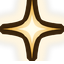
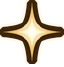
Fix card description overflow: measured step-down, margins, glyph cleanup
Descriptions could spill out of the fixed-height panel because the font
step-down chose its size from the raw CHARACTER COUNT, which ignores both
per-glyph width and the inline Power glyph the colorizer injects (worth
about a word of width for zero characters). Crescendo, at 59 chars - one
under the 60 threshold - stayed at 12pt and pushed a 4th line outside the
panel.

- Step-down now MEASURES: the colorized text is applied at each candidate
  size and the first whose get_content_height() fits the panel wins.
  RichTextLabel validates its wrap inside that call, so it reads true in
  the same frame - no await, which matters because this path runs per card
  in hand on every roll.
- DescriptionPanel grows 44 -> 56px for cards with no bonus-effect row. Its
  background is identical to the card body, so it is an invisible layout
  box and the 22px of dead space below it was free. 264 cards take 56, the
  11 with a bonus row keep 44.
- 6px side margins (wrap 140 -> 128px) so text no longer touches the frame.
- Non-breaking spaces weld the glyph to "Power" and a keyword to its number
  so AUTOWRAP_WORD can no longer split either pair across lines.
- power_glyph.png: dropped the halo, which covered the whole canvas and was
  sliced flat by its edge into a visible box, and rebuilt the top point from
  its intact mirror (the star is symmetric about row 28.5 to within
  0.02/255). Canvas 64x64 -> 64x67 with the new rows at the bottom, keeping
[…]

diff --git a/CLAUDE.md b/CLAUDE.md
@@ -8,11 +8,15 @@ L'auteur (Julien) n'est pas développeur de formation — le code a beaucoup de 
 
 Lire ceci avant de re-creuser quoi que ce soit — ça évite de redécouvrir des choses déjà établies. Session très chargée : garder cette liste à jour au fil des prochaines sessions plutôt que de tout re-résumer depuis zéro.
 
+- **STEP-DOWN DE POLICE DES DESCRIPTIONS PASSÉ EN MESURÉ (2026-07-29, sur screenshot de Julien « some card descriptions are not very well displayed when the text is a bit long » — Crescendo) — VÉRIFIÉ PAR HARNAIS (275 cartes, statique + 3 états de roll résolus, 0 débordement) + RENDU, NON PLAYTESTÉ.** Root cause : `description_font_size_for()` choisissait la taille sur le NOMBRE DE CARACTÈRES (seuils 60/90) — proxy qui ignore (a) la largeur réelle par glyphe et (b) **le glyphe de Power inline injecté par le colorizer, qui coûte ~un mot de largeur pour ZÉRO caractère**. Crescendo (« Deal damage equal to all Power generated this turn. Exhaust » = **59 caractères, UN sous le seuil de 60**) restait donc à 12pt et poussait une 4e ligne hors du `DescriptionPanel` (44px de haut) — et comme le label est centré verticalement par le `CenterContainer`, le débordement bave en haut ET en bas. **Fix = mesurer, exactement comme les TITRES le font déjà** (`TITLE_FONT_SIZE_CANDIDATES`, dont le commentaire disait déjà « les seuils par nombre de caractères ne peuvent pas marcher ici ») : nouveau `DESC_FONT_SIZE_CANDIDATES = [12, 11, 10, 9]`, et `_apply_description` boucle en posant réellement le texte colorisé à chaque taille jusqu'à ce que `description.get_content_height() <= description_panel.size.y`. **⚠ Découverte qui rend ça possible sans `await` : `RichTextLabel.get_content_height()` valide son wrap EN INTERNE et renvoie la vraie valeur dans la MÊME frame** (vérifié : 0 écart sur 275 cartes entre la lecture immédiate et la lecture post-layout) — donc pas besoin du pattern « await un process_frame » du toast d'achievement, ce qui compte car ce chemin tourne **par carte en main à chaque roll** (descriptions dynamiques). Sûr côté cycle de vie : les 5 vrais call sites (`hand.gd`, `card_rewards.gd`, `shop_card.gd`, `card_shop.gd`, `card_pile_view.gd`) font TOUS `add_child()` AVANT `.card = …`, et les 2 setters ont déjà `if not is_node_ready(): await ready`. **Appliqué aux 3 chemins** : les 2 `_apply_description` dupliqués (card_ui + card_menu_ui, piège de duplication habituel) **ET `dice.gd::_set_charged_description`** — ce dernier était figé à 12pt avec le commentaire « socket text is never long enough », **assertion fausse** (le panneau du socket est le MÊME slot 140×44, et n'importe quelle carte peut être posée sur le dé rouge) ; son placeholder « Place a card here » remet explicitement 12pt sinon il héritait de la taille rétrécie de la carte précédente, et son `CHARGED_DESC_GLYPH_PX` codé en dur à 14 devient `font_size + 2` (convention des cartes). **Résultat mesuré : 5 cartes rétrécies d'un cran** (Crescendo 12→11 ; Eclipse+, Precision Engine, Resonance, Transmutation 11→10 — les 5 seules qui débordaient) **et 19 cartes AGRANDIES 11→12pt** (All In, Assault(+), Bloodlust, Earthquake(+), Executioner, From Nothing(+), Meteor(+), Opening Gambit(+), Pinpoint(+), Stampede(+), Tension, Transmutation+) parce que l'heuristique était trop conservatrice — gain de lisibilité gratuit. **MARGES LATÉRALES AJOUTÉES DANS LA FOULÉE — 6px par côté, choix de Julien sur planche comparative** (« try to add some side margins just to see how it looks and then we can choose ») : le texte wrappait à **140px = toute la largeur de la carte, bord à bord**, donc il TOUCHAIT le cadre doré (visible sur Crescendo « …equal to all ✦ » et Resonance « …in your current ✦ »). `custom_minimum_size.x` du label Description passe **140 → 128** dans les 3 `.tscn` (card_ui, card_menu_ui, **et dice.tscn pour le socket**, qui doit rester cohérent). Options rendues et mesurées avant de choisir (harnais `debug_desc_margins.gd`/`.tscn`, sortie `power_icon_renders/desc_margin_options.png` + zoom 3× `desc_margin_zoom.png`) : 0px (actuel, texte collé au cadre) / 4px (2 cartes perdent un cran) / **6px (8 cartes perdent un cran — RETENU)** / 8px (9 cartes, dont 2 qui perdent DEUX crans). Aucune option ne déborde, le step-down mesuré absorbe tout — le vrai arbitrage est « air vs taille de police ». **⚠ Le wrap plus étroit a RÉVÉLÉ un cas que les 140px masquaient : `All In+` déborde même à 9pt** — sa description dynamique fait 94 caractères **PLUS une ligne forcée par un `\n` littéral** (`"…each adds its own roll\n(%d Dice remaining)"` dans `all_in_plus.gd`), donc elle coûte structurellement une ligne de plus que n'importe quelle autre carte. Plancher 8pt ajouté aux 3 listes de candidats (filet de sécurité, **plus atteint depuis l'agrandissement du panneau ci-dessous**).
+- **PANNEAU DE DESCRIPTION AGRANDI 44 → 56px (même session, décision de Julien « yes do B » après comparaison chiffrée) — c'est CE changement qui rend les marges gratuites.** Constat déclencheur : il y a **22px de place morte sous le DescriptionPanel** (y188..210), occupés uniquement par `BonusSeparator`/`BonusEffect`, càd par **11 cartes seulement** (celles à `bonus_requirement != NONE`). Et surtout — **le DescriptionPanel est une boîte de layout INVISIBLE** : son `bg_color` est **identique au bit près** au corps de la carte sur les variantes Celestial (`0.156863, 0.247059, 0.298039`) et Blessing (`0.282353, 0.176471, 0.294118`), et ne diffère que de ~0.001 sur la normale (`0.309804,0,0.070588` vs `0.311214,0,0.069622`). **L'agrandir ne change donc STRICTEMENT RIEN visuellement** — seul le texte long grandit. Nouvelles constantes `DESC_PANEL_TOP = 144.0` / `DESC_PANEL_HEIGHT = 56.0` / `DESC_PANEL_HEIGHT_WITH_BONUS = 44.0` + helper `_resize_description_panel()` appelé **AVANT `_apply_description`** (qui mesure contre `description_panel.size.y` — l'ordre est critique ; vérifié : écrire `offset_bottom` met `size.y` à jour de façon SYNCHRONE, le panneau n'étant pas géré par un container). Le helper pose les DEUX branches inconditionnellement, jamais seulement l'agrandissement : les nœuds sont réutilisés (Before/AfterCard du dialogue d'upgrade) donc une carte à bonus doit pouvoir RÉTRÉCIR le panneau. **56 et pas 66 (la place totale)** : le texte est centré verticalement, donc un panneau trop haut laisse un gros bloc dériver vers le bas jusqu'à frôler la bordure basse — exactement le problème de bord que les marges venaient de régler, sur l'autre axe ; 56 laisse 10px de garde. **Appliqué aussi au socket de dice.gd**, ce qui a nécessité de **NORMALISER des ancres corrompues dans `dice.tscn`** : son DescriptionPanel avait `anchor_top = 144.0` / `anchor_bottom = 188.0` (valeurs d'ancre censées être dans 0..1 !) compensées par `offset_top = -30096` / `offset_bottom = -39292` — ça ne résolvait au bon rectangle QUE parce que le parent fait exactement 210px de haut (144×210−30096 = 144). Remis à ancres 0 + offsets 144/188, identique au rendu mais éditable sans piège. **RÉSULTAT FINAL, strictement meilleur qu'avant TOUT ce chantier : 0 débordement (statique + 3 états de roll résolus), 0 carte plus petite qu'à l'origine, 32 cartes PLUS GRANDES**, et les marges de 6px ne coûtent plus rien. Crescendo (la carte signalée) repasse **12pt** — sa taille d'origine, mais cette fois elle TIENT dans le panneau et a des marges. All In+ passe de 8pt à **10pt sans toucher à son texte** (donc la réécriture envisagée — inliner le `\n`, retirer « Then, » — devient inutile ; elle reste la carte la plus dense du pool, mesurée : inliner le `\n` la mettrait à 11pt si un jour on veut ce cran de plus). Répartition des panneaux vérifiée : **264 cartes à 56px, 11 à 44px, 0 erreur**. Harnais ajoutés : `debug_allin_options.gd`/`.tscn` (variantes de wording d'All In+ + budget vertical) et `debug_taller_panel.gd`/`.tscn` (gain par hauteur de panneau 44/56/62).
+- **SOUDURES INSÉCABLES (NBSP) DANS LE COLORIZER (même session, 2 retours de Julien sur screenshot) — VÉRIFIÉ PAR RENDU, NON PLAYTESTÉ.** (1) Eclipse affichait « does not reset your ✦ » / retour à la ligne / « Power. » — **le glyphe se retrouvait orphelin en fin de ligne, séparé de son propre mot** ; (2) Disintegrate coupait « Charge » / « 2 ». Root cause commune : `autowrap_mode = AUTOWRAP_WORD` casse sur N'IMPORTE quelle espace ordinaire, et le colorizer en émettait deux (l'espace entre `[img]` et « Power » ligne 210 ; et le `$0` de la passe 3 qui préserve tel quel l'espace mot-clé↔nombre). **Fix = `const NBSP := " "`** (U+00A0) posé à 3 endroits : glyphe↔« Power », mot-clé↔son nombre (les 2 sens : « Charge 2 » ET « 2 Strength »), et mot-clé↔span de dé absorbé (« Charge 2 Magma Dice » peut encore casser avant « Magma », jamais avant « 2 »). **Godot n'a PAS de BBCode « nobr »** — le NBSP est le seul levier, et TextServer respecte bien UAX #14 (vérifié au rendu : les 2 cartes signalées sont réparées). ⚠ **Nouveau helper `_wrap_keyword_span()`** parce que `RegEx.sub()` sait substituer une capture mais pas la TRANSFORMER — la passe 3 reconstruit donc ses spans à la main (même style que `_swap_x_placeholder`). ⚠ **Ne PAS généraliser le NBSP aux phrases longues** : un run insécable plus large que la colonne de 128px ne peut pas être coupé par AUTOWRAP_WORD et déborderait horizontalement ; réservé aux paires courtes. Coût mesuré : 1 carte de moins dans les « agrandies » (32 → 31), 0 débordement. Harnais `debug_wrap_pairs.gd`/`.tscn` (racine, non committé) : rend les cartes signalées + les formes mot-clé/nombre ET imprime le BBCode final avec les `<NBSP>` visibles.
+- **GLYPHE DE POWER NETTOYÉ : halo retiré + pointe haute RECONSTRUITE (même session, 3e retour de Julien « you can see the borders around the actual shape of the icon… I mean the small halo ») — VÉRIFIÉ PAR MESURE + RENDU MOTEUR, NON PLAYTESTÉ.** Julien voyait un **carré** autour du ✦. Diagnostic : le halo doré peint dans `power_glyph.png` s'étendait sur **tout** le canvas 64px (rangées 0-60, colonnes 0-63) et **ne retombait jamais à zéro avant le bord** — il était donc tranché net par la bordure du canvas, produisant 4 arêtes droites avec des coins vides = une boîte. **⚠ PIÈGE DE MÉTHODE MAJEUR : à la taille de design (14px) les 4 variantes sont RIGOUREUSEMENT indiscernables et l'artefact est invisible.** Il n'apparaît que parce que la fenêtre de Julien est ~3,4× le canvas 1280×720, donc un glyphe « 14px » rastérise vers **48px** et la source 64px est quasi 1:1. **Toute future évaluation d'un asset inline doit se faire à la taille ÉCRAN réelle, pas à la taille design** (c'est aussi pour ça que ça n'avait pas été vu à l'intégration). 3 variantes construites et rendues en moteur sur de vraies cartes à l'échelle 2,6 (harnais `debug_glyph_variants.gd`/`.tscn` — ⚠ `POWER_GLYPH_PATH` est un `const`, donc le harnais échange le chemin DANS le BBCode déjà produit ; toutes les variantes font 64px de large, la mesure de layout est donc identique) : **A halo supprimé (RETENU)**, B halo estompé vers le bord (**inefficace** — le gros du halo est près de l'étoile, pas près du bord), C halo à 50% (atténue sans supprimer). **Le fond teal d'Eclipse est LE test décisif** (un halo chaud y contraste au maximum) — les fonds rouges le cachent presque. **Pointe haute réparée dans la foulée** : le profil ligne par ligne montre que l'étoile est symétrique **exactement** autour de la rangée 28,5 (diff de couleur mesurée à 0,00-0,02/255 sur chaque paire miroir) et que sa vraie pointe vit aux rangées −3..−1 — soit précisément les 3px que le décalage vers le haut du 07-29 avait jetés (`np.roll` + clear). Les 3 rangées manquantes sont donc **reconstruites depuis leur miroir intact** (rangées 60/59/58), pas redessinées à vue. **⚠ Le canvas passe 64×64 → 64×67, les 3 rangées ajoutées étant EN BAS** : ça garde l'étoile entière ET la remontée optique validée par Julien (elle reste haute dans sa boîte) ; à `[img=14]` l'étoile rend toujours exactement 14×14, **donc aucun changement de taille et aucun call site à retoucher** (la convention `font_size + 2` est intacte). Les pointes gauche/droite, elles, se terminaient déjà proprement pile sur le bord (taper 10→8→6) — non touchées. Vérifs post-changement : audit 275 cartes 0 débordement, chemins CardUI + socket OK, **et tooltip « Power » re-rendu** (le panneau est à hauteur FIXE et clippe silencieusement au-delà de 3 lignes — le glyphe étant maintenant 0,66px plus haut à `[img=18]`, ce contrôle n'était pas optionnel : il tient toujours en 3 lignes). Original sauvegardé dans **`power_glyph_ORIG_backup.png`** ; `power_glyph_v_none/taper/half.png` laissés à la racine (non committés) pour le harnais de comparaison. Harnais racine non committés : `debug_desc_overflow.gd`/`.tscn` (audit des 275 cartes + diff vs l'ancienne heuristique), `debug_desc_paths.gd`/`.tscn` (chemins CardUI + socket dice.gd), `debug_desc_render.gd`/`.tscn` (rendu avant/après → `power_icon_renders/desc_overflow_fix.png`). ⚠ Bruit préexistant sans rapport repéré au passage : `characters/warrior/cards/warrior_block.tres` et `warrior_slash.tres` ne chargent plus (art manquant `assets/images/shieldability.png` / `art/tile_0118.png`) — fichiers legacy, le deck de départ utilise `warrior_block1-4.tres`.
 - **ICÔNE DE POWER — GLYPHE « N » INTÉGRÉ AU COLORIZER LE 2026-07-29 (mode glyphe+mot par défaut), PAS ENCORE PLAYTESTÉ ; décision de wording (garder le mot vs glyphe seul façon GPT) EN ATTENTE.** Historique de l'exploration (2026-07-28) : Question de Julien : remplacer le « X » des descriptions de cartes par une icône de Power. 16 candidats générés (6 Firefly sur mes prompts + 10 GPT Image), nettoyés au pipeline chroma-key, rendus **dans de vraies CardMenuUI à 14px** (harnais `debug_power_icon.gd`/`.tscn` à la racine, non committé ; icônes de test `power_icon_test_a-f.png` + sorties `power_icon_renders/` à la racine, non committées — à supprimer si l'idée est abandonnée).
-  - **⭐ RE-ÉVALUATION FABLE (2026-07-29) — LES 16 CANDIDATS SONT STRUCTURELLEMENT MORTS, GAGNANT = GLYPHE VECTORIEL DESSINÉ (pas généré), EN ATTENTE DU VERDICT DE JULIEN.** Les 16 téléchargements du 07-28 (revus un par un, contact sheet + rendus moteur) échouent tous à ≥1 de **4 filtres structurels** : (1) pips comptables (triades, dé+burst, sceaux à pip central) ; (2) collision d'iconographie (disque doré = pièce d'or, cristal/gemme = **gemmes de rareté des bannières**, flamme = magma) ; (3) bouillie à 14px (bursts, swirls, perles) ; (4) sémantique fausse (chevrons = rank-up). **Regénérer ces concepts ne peut pas les sauver — le round-2 « orbe » est SUPERSEDED : un orbe à 14px devient physiquement un disque = une pièce** (vérifié en moteur sur G1 nettoyé + orbe vectoriel à anneau). **Reframe clé : à 12pt le glyphe a la taille d'une LETTRE — c'est de la typographie, pas de l'illustration ; le détail peint est invisible à cette taille.** Méthode « shape-first » : 6 glyphes vectoriels dessinés en PIL (supersample 8×, or/blanc chaud, outline brun, halo subtil, 64px, teintables) + testés dans le VRAI moteur (harnais étendu : env `POWER_ICON_VARIANTS` + carte Blaze ajoutée pour prévisualiser la phase 1 « [glyphe] Power » doré). **Verdict en moteur : la famille ÉTOILE 4 BRANCHES gagne nettement** — elle seule reste nette à 14px (grade letterform), zéro collision (pas un disque/gemme/flamme/pip), sémantique « énergie/magie » qui rime avec les orbes de power et les bursts de max roll, et **« ✦x3 » lève enfin l'ambiguïté de « X3 »** (icône × 3). Classement round 1 : L (glint allongé) > G (spark trapu) > M > H — **PUIS catch de Julien : L est quasi-identique au glyphe « Regent star » de STS2** (slim/allongé/cyan chez eux, inline dans le texte de carte pareil). Verdict donné : la convergence de forme est attendue (très peu de formes survivent à 14px) mais l'overlap d'audience total fait que chaque marque identique nourrit la perception « clone » — **différencier DANS la famille plutôt qu'abandonner ; ne JAMAIS shipper slim+allongé+couleur froide**. **Round 2 sur sa demande (« try g, h, and the lightning bolt… don't be scared to try new things ») : N (glint carré à bords concaves, remplace G), O (spark diagonal affûté « X », remplace H — le blob venait des bords droits), P (bolt flash incliné), Q (bolt vertical), R (double-étincelle fusionnée)** — en moteur : **finalistes N/O/P** (P = le plus instantanément lisible + « your ⚡ Power » très naturel + zéro adjacence STS2, mais saveur électrique étrangère au thème dés-magie ; N = le plus joli, famille sparkle assumée mais différenciée de Regent par proportions carrées+or+courbes ; O = le plus « ownable », lit à la fois spark et X donc continuité avec la notation actuelle — bémol : accolé au mot Power il peut flasher « multiplication » une fraction de seconde). Q correct mais P mieux proportionné ; R = l'étoile compagne devient une miette à 14px (charmante à 64px, morte inline). Morts round 1 : comète (têtard), orbe-anneau et G1 nettoyé (pièces), sceau C (fuzz). Icônes `power_icon_test_a-r.png` + rendus `power_icon_renders/final*/` à la racine (non committés). **Julien a choisi N (« lets try N ») → INTÉGRÉ LE JOUR MÊME dans le vrai pipeline de texte** : asset stable **`power_glyph.png`** (racine, copie de test_n, near-monochrome or → tintable via `[img color=]` plus tard) ; **`KeywordColorizer`** porte tout — `POWER_GLYPH_PATH`, `enum PowerGlyphMode {OFF, WORD_WITH_GLYPH, GLYPH_ONLY}`, **`static var power_glyph_mode` (défaut WORD_WITH_GLYPH)** et `_apply_power_glyph()` en **passe 4, APRÈS les 3 passes existantes** (X et « Power » ne sont pas des KEYWORDS → zéro interférence ; le path lowercase ne peut pas se re-matcher). Le « X » standalone (case-sensitive, `\bX(\d*)\b` — « X3 » → « [glyphe]x3 », lève l'ambiguïté ×3) devient TOUJOURS le glyphe ; le mot « Power » devient « [glyphe] Power doré » (teaching) ou « [glyphe] » seul (mode GPT). **Taille du glyphe = font_size+2 passée par les 2 `_apply_description`** (12→14px, suit les step-downs 11/10) + 12px sur les 2 `bonus_effect_label` (police 10) ; `get_colorized_description(text, glyph_px=16)` (card.gd + relic.gd — les tooltips de reliques Blood Sword/Metronome/Overflow Valve reçoivent le glyphe gratuitement, vérifié zéro faux-positif « X » dans les tooltips de reliques et bonus texts — le seul X de bonus, Ambush « Block X », EST du Power). **Les descriptions DYNAMIQUES restent correctes par construction** (X résolu en nombre = plus de X à matcher ; le glyphe n'apparaît que tant que le montant est inconnu). Le step-down de police mesure toujours le texte BRUT (comportement préservé, vérifié hier). **`debug_power_icon.gd` force maintenant `power_glyph_mode = OFF`** (garde sa baseline « original X » honnête). **NOUVEAU harnais `debug_power_wording.gd`/`.tscn` (racine, non committé)** : rend les 3 philosophies A/B/C via le VRAI chemin set_card sur 7 cartes stress-test (Strike/Bullseye/Blaze/Second Wind/Shockwave/Refinement/Eclipse), le mode C utilisant des Cards dupliquées en mémoire avec les réécritures GPT (« Gain 7 ✦ », « Heal ✦ ») — sortie `power_icon_renders/wording/`. **Idée GPT sur la table : renommer la ressource en glyphe TOUT COURT dans le texte (« Gain 7 ✦ », « Deal ✦ damage ») — compression spectaculaire au rendu (Second Wind passe de 3 lignes à 2 mots) mais déplace tout l'enseignement vers HUD/tooltip/tutoriel ; reco de Claude : shipper B (teaching) au launch, basculer C post-launch = flip du static var + passe de réécriture des .tres.** **MÊME SESSION, sur retour de Julien en jeu (« pretty good » + 2 demandes) : (a) glyphe REMONTÉ de 3px source (~0,7px à 14px) — cuit DANS `power_glyph.png` (np.roll up + clear, le clipping ne mange que du halo invisible ; toute REGÉNÉRATION de l'asset doit re-appliquer ce shift). ⚠ La mesure d'encre disait ±0,5px « déjà centré » — mais la bande mesurée incluait le descender du « g » ; l'œil de Julien fait foi sur l'optique, A/B avant/après vérifié au rendu.** **(b) TOOLTIP « Power » LIVRÉ** : entrée dans `tooltip.gd::get_tooltip_content` (glyphe `[img=18]` dans le TITRE + `[img=13]` en tête du corps — les 2 labels du panel sont des RichTextLabel BBCode) + détection texte via nouveau `KeywordColorizer.text_mentions_power()` (mêmes patterns case-sensitive que la passe 4, retourne false en mode OFF) branchée dans **les 2 handlers hover dupliqués** (card_ui + card_menu_ui, après la boucle dice) — toute carte qui rend le glyphe (mot OU X) montre le tooltip au survol, c'est LA boucle d'enseignement. **⚠ Piège : le panel tooltip.tscn est à HAUTEUR FIXE + empilé par constantes TOOLTIP_HEIGHT → un corps > 3 lignes CLIPPE silencieusement** (1er jet coupé à « when [played.] », raccourci à « ✦ is your Power: the total of your Dice rolls. Most cards reset it when played. ») — ne pas rallonger sans re-render. Harnais `debug_power_tooltip.gd`/`.tscn` (racine, non committé). **GLYPHE HUD LIVRÉ (même session, 3e demande de Julien)** : `PowerGlyph` (TextureRect 32px) + `PowerHoverZone` (Control, `mouse_filter = 1` PASS) **ENFANTS du Label `CurrentPower`** dans dice.tscn — position « ✦N » (à gauche des chiffres, centré sur leur encre : offsets -34..-2 × 31..63 ; le zone couvre glyphe+chiffres -32..72 × 10..84). **⚠ Choix structurel à comprendre avant de retoucher : `use_parent_material = true`** → le glyphe partage le ShaderMaterial `power_float` du label (drift/crackle = TIME global, aucun déphasage possible) ET hérite modulate/scale par parenté → flashs de couleur, punchs de clang et float bougent le duo comme UN objet rigide (la règle « they should move together » des icônes d'intent). **Conséquence assumée : le glyphe est TEINTÉ par le modulate dice-colored du nombre** (bleu argenté sur blue, orange chaud sur magma — vérifié au rendu 3 types, pas de boue) — il n'est PAS or fixe comme sur les cartes ; le forcer or = le dé-parenter (perd la synchro gratuite), ne pas le faire sans demande. Hover → tooltip « Power » à `POWER_TOOLTIP_POS (788,300)` (au-dessus du champ de bataille, panel CanvasLayer 100), pattern anti-leak complet (kill-before-spawn + timer 8s + **nouveau `_exit_tree()` de dice.gd** — le fichier n'en avait pas). Positionnement calé par 2 itérations de rendu `debug_dice_glow` (1er jet au-dessus des chiffres = lisait comme un ornement du pilier de fond — la compo « au-dessus » est MORTE, garder « à gauche »). **Tooltip Power reformulé sur la phrase de Julien** : « ✦ is your Power: the sum of consecutive rolls on the same Dice type. Most cards reset it. » (tient PILE en 3 lignes, re-rendu vérifié). **PUIS RETIRÉ LE JOUR MÊME sur verdict de Julien (5 retours d'un coup)** : (1+2) le glyphe HUD était à moitié caché par le dé (vu sur son screenshot — l'espace entre dé/aura et chiffres est structurellement trop étroit, et la compo « au-dessus » était déjà morte) ET jugé non nécessaire → **nœud `PowerGlyph` SUPPRIMÉ de dice.tscn (ext_resource + load_steps 63), MAIS `PowerHoverZone` + tooltip au survol du nombre CONSERVÉS** (la boucle d'enseignement = glyphe sur cartes + tooltips, pas de glyphe HUD). (3) **Passe « Gain X Block » APPLIQUÉE — 59 fichiers** (`block_wording_pass.py` scratchpad, regex `\bBlock (X(?:\+?\d+)?|%[ds])\b` → `Gain \1 Block` sur descriptions .tres + bonus + strings dynamiques .gd) : tout « Block X… » devient « Gain X Block… » (aligné sur Juggernaut qui disait DÉJÀ « gain X Block » — le pool était incohérent), les usages VERBE (« that Blocks its roll ») intacts par construction du regex. (4) **Multiplicateur « x » → vrai « × »** (`_apply_power_glyph` : « ✦×3 ») — le rendu confirme que la police de description a le glyphe ×. (5) **Tooltip Power v3** : « The sum of your consecutive rolls on the same Dice type. Cards with [glyphe] use this number. » (le « ✦ is your Power » redondant avec le titre et le « most cards reset it » jugé confus par Julien sont retirés ; tient en 3 lignes, vérifié). Harnais wording : Refinement/Eclipse remplacées par warrior_block1/Bulletproof dans CARDS pour couvrir le rendu Block. **REFONTE DES DESCRIPTIONS DYNAMIQUES (même session, décision de Julien : « toujours montrer le texte de base + le montant réel entre parenthèses ») — le remplacement complet (« Deal 9 damage », formule perdue) devient « Deal ✦×3 damage (9) » : le texte de base reste TOUJOURS affiché, la valeur résolue s'ajoute en parenthèses DORÉES juste après la clause qui contient le X** (nouvelle passe 5 du colorizer : `\((\d+|\?)\)` → or — ne matche QUE des parens purement numériques (ou « ? » d'Ink), audité zéro collision avec les parenthèses-formules à mots ; tourne même en mode OFF). **Migration en 3 vagues** (scripts `dynamic_desc_migration.py` + `fix_suffix_placement.py` au scratchpad) : 76 fichiers auto-migrés (pattern uniforme inked/no-roll/resolved), puis **40 repositionnés** (le suffixe collait en FIN de texte — sur « Deal X damage. Does not reset your Power » le (3) atterrissait après « Power », mensonge visuel attrapé au rendu row D — règle finale : insérer avant le premier « . » qui SUIT le token X), puis **6 bespoke** : duo/juggernaut(+) = parens PAR CLAUSE (« Deal X damage (%d) and gain X Block (%d) » — dégâts et block divergent dès que la Strength s'applique !), second_wind(+) réaligné sur la convention. **Cartes volontairement NON migrées** : tsunami/all_in/dice_avalanche/mirror_blow/momentum/crescendo/bulwark/diceslap/pinpoint/resonance/cascade — leur texte résolu RESTATE déjà la formule en parenthèses-info (elles n'ont jamais eu le problème « formule perdue ») ; slash/cascade = cartes coupées, skip. Le panneau de carte socketée (dice.gd) hérite gratuitement (même chemin get_dynamic_description). Harnais wording : **row D « RESOLVED »** simule roll 3 (Global posé + `ModifierHandler.new()` sans enfants = passthrough) à travers le VRAI chemin — vérifie aussi que les gates ratés (Bullseye Mult 6, Bulletproof RED) gardent le texte de base. **⚠ INCIDENT STALE-BUFFER (2e occurrence du pattern live-editor) : l'éditeur de Julien a ÉCRASÉ le tooltip Power v3 en re-sauvant sa copie périmée de tooltip.gd** (re-appliqué ; si le vieux texte revient encore : fermer l'onglet script tooltip.gd dans l'éditeur / le laisser recharger avant de jouer). **RESTE À FAIRE** : verdict B vs C uniquement. ⚠ gdtoolkit : warrior_block/unity/fortify.gd ont le `Array [Node]` préexistant (invérifiables, pas cassés). **Si art généré voulu malgré tout : prompts fournis dans le chat du 07-29, contraints sur LA forme gagnante** (étoile 4 branches allongée, near-monochrome blanc/or, fond VERT, zéro pip/sparkles secondaires). Prochaines étapes si validé : phase 1 = entrée « Power » dans KeywordColorizer (glyphe + or, 1 entrée, 0 .tres) + tooltip hover sur le nombre de Power ; phase 2 = swap du X. (1) **La face de dé (mon favori initial, tirée de `blue6.png`) est MORTE — catch de Julien : une face à 6 pips lit comme le NOMBRE 6**, donc « Deal [dé 6 pips] x3 damage » se lit « 6×3=18 ». Pire que X, qui est au moins honnêtement inconnu. **Règle qui en découle : jamais de pips/points comptables dans ce glyphe.** (2) **« X×3 » (proposé pour lever l'ambiguïté X-au-carré) REJETÉ par Julien** — ajoute du bruit visuel sur toutes les cartes à multiplicateur pour un gain marginal. Ne pas re-proposer.
+  - **⭐ RE-ÉVALUATION FABLE (2026-07-29) — LES 16 CANDIDATS SONT STRUCTURELLEMENT MORTS, GAGNANT = GLYPHE VECTORIEL DESSINÉ (pas généré), EN ATTENTE DU VERDICT DE JULIEN.** Les 16 téléchargements du 07-28 (revus un par un, contact sheet + rendus moteur) échouent tous à ≥1 de **4 filtres structurels** : (1) pips comptables (triades, dé+burst, sceaux à pip central) ; (2) collision d'iconographie (disque doré = pièce d'or, cristal/gemme = **gemmes de rareté des bannières**, flamme = magma) ; (3) bouillie à 14px (bursts, swirls, perles) ; (4) sémantique fausse (chevrons = rank-up). **Regénérer ces concepts ne peut pas les sauver — le round-2 « orbe » est SUPERSEDED : un orbe à 14px devient physiquement un disque = une pièce** (vérifié en moteur sur G1 nettoyé + orbe vectoriel à anneau). **Reframe clé : à 12pt le glyphe a la taille d'une LETTRE — c'est de la typographie, pas de l'illustration ; le détail peint est invisible à cette taille.** Méthode « shape-first » : 6 glyphes vectoriels dessinés en PIL (supersample 8×, or/blanc chaud, outline brun, halo subtil, 64px, teintables) + testés dans le VRAI moteur (harnais étendu : env `POWER_ICON_VARIANTS` + carte Blaze ajoutée pour prévisualiser la phase 1 « [glyphe] Power » doré). **Verdict en moteur : la famille ÉTOILE 4 BRANCHES gagne nettement** — elle seule reste nette à 14px (grade letterform), zéro collision (pas un disque/gemme/flamme/pip), sémantique « énergie/magie » qui rime avec les orbes de power et les bursts de max roll, et **« ✦x3 » lève enfin l'ambiguïté de « X3 »** (icône × 3). Classement round 1 : L (glint allongé) > G (spark trapu) > M > H — **PUIS catch de Julien : L est quasi-identique au glyphe « Regent star » de STS2** (slim/allongé/cyan chez eux, inline dans le texte de carte pareil). Verdict donné : la convergence de forme est attendue (très peu de formes survivent à 14px) mais l'overlap d'audience total fait que chaque marque identique nourrit la perception « clone » — **différencier DANS la famille plutôt qu'abandonner ; ne JAMAIS shipper slim+allongé+couleur froide**. **Round 2 sur sa demande (« try g, h, and the lightning bolt… don't be scared to try new things ») : N (glint carré à bords concaves, remplace G), O (spark diagonal affûté « X », remplace H — le blob venait des bords droits), P (bolt flash incliné), Q (bolt vertical), R (double-étincelle fusionnée)** — en moteur : **finalistes N/O/P** (P = le plus instantanément lisible + « your ⚡ Power » très naturel + zéro adjacence STS2, mais saveur électrique étrangère au thème dés-magie ; N = le plus joli, famille sparkle assumée mais différenciée de Regent par proportions carrées+or+courbes ; O = le plus « ownable », lit à la fois spark et X donc continuité avec la notation actuelle — bémol : accolé au mot Power il peut flasher « multiplication » une fraction de seconde). Q correct mais P mieux proportionné ; R = l'étoile compagne devient une miette à 14px (charmante à 64px, morte inline). Morts round 1 : comète (têtard), orbe-anneau et G1 nettoyé (pièces), sceau C (fuzz). Icônes `power_icon_test_a-r.png` + rendus `power_icon_renders/final*/` à la racine (non committés). **Julien a choisi N (« lets try N ») → INTÉGRÉ LE JOUR MÊME dans le vrai pipeline de texte** : asset stable **`power_glyph.png`** (racine, copie de test_n, near-monochrome or → tintable via `[img color=]` plus tard) ; **`KeywordColorizer`** porte tout — `POWER_GLYPH_PATH`, `enum PowerGlyphMode {OFF, WORD_WITH_GLYPH, GLYPH_ONLY}`, **`static var power_glyph_mode` (défaut WORD_WITH_GLYPH)** et `_apply_power_glyph()` en **passe 4, APRÈS les 3 passes existantes** (X et « Power » ne sont pas des KEYWORDS → zéro interférence ; le path lowercase ne peut pas se re-matcher). Le « X » standalone (case-sensitive, `\bX(\d*)\b` — « X3 » → « [glyphe]x3 », lève l'ambiguïté ×3) devient TOUJOURS le glyphe ; le mot « Power » devient « [glyphe] Power doré » (teaching) ou « [glyphe] » seul (mode GPT). **Taille du glyphe = font_size+2 passée par les 2 `_apply_description`** (12→14px, suit les step-downs 11/10) + 12px sur les 2 `bonus_effect_label` (police 10) ; `get_colorized_description(text, glyph_px=16)` (card.gd + relic.gd — les tooltips de reliques Blood Sword/Metronome/Overflow Valve reçoivent le glyphe gratuitement, vérifié zéro faux-positif « X » dans les tooltips de reliques et bonus texts — le seul X de bonus, Ambush « Block X », EST du Power). **Les descriptions DYNAMIQUES restent correctes par construction** (X résolu en nombre = plus de X à matcher ; le glyphe n'apparaît que tant que le montant est inconnu). Le step-down de police mesurait le texte BRUT — **PLUS VRAI depuis le 2026-07-29 : il MESURE désormais le texte colorisé rendu, glyphe compris (voir le bullet « STEP-DOWN … MESURÉ » en tête de TL;DR) ; c'était précisément le bug qui faisait déborder Crescendo.** **`debug_power_icon.gd` force maintenant `power_glyph_mode = OFF`** (garde sa baseline « original X » honnête). **NOUVEAU harnais `debug_power_wording.gd`/`.tscn` (racine, non committé)** : rend les 3 philosophies A/B/C via le VRAI chemin set_card sur 7 cartes stress-test (Strike/Bullseye/Blaze/Second Wind/Shockwave/Refinement/Eclipse), le mode C utilisant des Cards dupliquées en mémoire avec les réécritures GPT (« Gain 7 ✦ », « Heal ✦ ») — sortie `power_icon_renders/wording/`. **Idée GPT sur la table : renommer la ressource en glyphe TOUT COURT dans le texte (« Gain 7 ✦ », « Deal ✦ damage ») — compression spectaculaire au rendu (Second Wind passe de 3 lignes à 2 mots) mais déplace tout l'enseignement vers HUD/tooltip/tutoriel ; reco de Claude : shipper B (teaching) au launch, basculer C post-launch = flip du static var + passe de réécriture des .tres.** **MÊME SESSION, sur retour de Julien en jeu (« pretty good » + 2 demandes) : (a) glyphe REMONTÉ de 3px source (~0,7px à 14px) — cuit DANS `power_glyph.png` (np.roll up + clear, le clipping ne mange que du halo invisible ; toute REGÉNÉRATION de l'asset doit re-appliquer ce shift). ⚠ La mesure d'encre disait ±0,5px « déjà centré » — mais la bande mesurée incluait le descender du « g » ; l'œil de Julien fait foi sur l'optique, A/B avant/après vérifié au rendu.** **(b) TOOLTIP « Power » LIVRÉ** : entrée dans `tooltip.gd::get_tooltip_content` (glyphe `[img=18]` dans le TITRE + `[img=13]` en tête du corps — les 2 labels du panel sont des RichTextLabel BBCode) + détection texte via nouveau `KeywordColorizer.text_mentions_power()` (mêmes patterns case-sensitive que la passe 4, retourne false en mode OFF) branchée dans **les 2 handlers hover dupliqués** (card_ui + card_menu_ui, après la boucle dice) — toute carte qui rend le glyphe (mot OU X) montre le tooltip au survol, c'est LA boucle d'enseignement. **⚠ Piège : le panel tooltip.tscn est à HAUTEUR FIXE + empilé par constantes TOOLTIP_HEIGHT → un corps > 3 lignes CLIPPE silencieusement** (1er jet coupé à « when [played.] », raccourci à « ✦ is your Power: the total of your Dice rolls. Most cards reset it when played. ») — ne pas rallonger sans re-render. Harnais `debug_power_tooltip.gd`/`.tscn` (racine, non committé). **GLYPHE HUD LIVRÉ (même session, 3e demande de Julien)** : `PowerGlyph` (TextureRect 32px) + `PowerHoverZone` (Control, `mouse_filter = 1` PASS) **ENFANTS du Label `CurrentPower`** dans dice.tscn — position « ✦N » (à gauche des chiffres, centré sur leur encre : offsets -34..-2 × 31..63 ; le zone couvre glyphe+chiffres -32..72 × 10..84). **⚠ Choix structurel à comprendre avant de retoucher : `use_parent_material = true`** → le glyphe partage le ShaderMaterial `power_float` du label (drift/crackle = TIME global, aucun déphasage possible) ET hérite modulate/scale par parenté → flashs de couleur, punchs de clang et float bougent le duo comme UN objet rigide (la règle « they should move together » des icônes d'intent). **Conséquence assumée : le glyphe est TEINTÉ par le modulate dice-colored du nombre** (bleu argenté sur blue, orange chaud sur magma — vérifié au rendu 3 types, pas de boue) — il n'est PAS or fixe comme sur les cartes ; le forcer or = le dé-parenter (perd la synchro gratuite), ne pas le faire sans demande. Hover → tooltip « Power » à `POWER_TOOLTIP_POS (788,300)` (au-dessus du champ de bataille, panel CanvasLayer 100), pattern anti-leak complet (kill-before-spawn + timer 8s + **nouveau `_exit_tree()` de dice.gd** — le fichier n'en avait pas). Positionnement calé par 2 itérations de rendu `debug_dice_glow` (1er jet au-dessus des chiffres = lisait comme un ornement du pilier de fond — la compo « au-dessus » est MORTE, garder « à gauche »). **Tooltip Power reformulé sur la phrase de Julien** : « ✦ is your Power: the sum of consecutive rolls on the same Dice type. Most cards reset it. » (tient PILE en 3 lignes, re-rendu vérifié). **PUIS RETIRÉ LE JOUR MÊME sur verdict de Julien (5 retours d'un coup)** : (1+2) le glyphe HUD était à moitié caché par le dé (vu sur son screenshot — l'espace entre dé/aura et chiffres est structurellement trop étroit, et la compo « au-dessus » était déjà morte) ET jugé non nécessaire → **nœud `PowerGlyph` SUPPRIMÉ de dice.tscn (ext_resource + load_steps 63), MAIS `PowerHoverZone` + tooltip au survol du nombre CONSERVÉS** (la boucle d'enseignement = glyphe sur cartes + tooltips, pas de glyphe HUD). (3) **Passe « Gain X Block » APPLIQUÉE — 59 fichiers** (`block_wording_pass.py` scratchpad, regex `\bBlock (X(?:\+?\d+)?|%[ds])\b` → `Gain \1 Block` sur descriptions .tres + bonus + strings dynamiques .gd) : tout « Block X… » devient « Gain X Block… » (aligné sur Juggernaut qui disait DÉJÀ « gain X Block » — le pool était incohérent), les usages VERBE (« that Blocks its roll ») intacts par construction du regex. (4) **Multiplicateur « x » → vrai « × »** (`_apply_power_glyph` : « ✦×3 ») — le rendu confirme que la police de description a le glyphe ×. (5) **Tooltip Power v3** : « The sum of your consecutive rolls on the same Dice type. Cards with [glyphe] use this number. » (le « ✦ is your Power » redondant avec le titre et le « most cards reset it » jugé confus par Julien sont retirés ; tient en 3 lignes, vérifié). Harnais wording : Refinement/Eclipse remplacées par warrior_block1/Bulletproof dans CARDS pour couvrir le rendu Block. **REFONTE DES DESCRIPTIONS DYNAMIQUES (même session, décision de Julien : « toujours montrer le texte de base + le montant réel entre parenthèses ») — le remplacement complet (« Deal 9 damage », formule perdue) devient « Deal ✦×3 damage (9) » : le texte de base reste TOUJOURS affiché, la valeur résolue s'ajoute en parenthèses DORÉES juste après la clause qui contient le X** (nouvelle passe 5 du colorizer : `\((\d+|\?)\)` → or — ne matche QUE des parens purement numériques (ou « ? » d'Ink), audité zéro collision avec les parenthèses-formules à mots ; tourne même en mode OFF). **Migration en 3 vagues** (scripts `dynamic_desc_migration.py` + `fix_suffix_placement.py` au scratchpad) : 76 fichiers auto-migrés (pattern uniforme inked/no-roll/resolved), puis **40 repositionnés** (le suffixe collait en FIN de texte — sur « Deal X damage. Does not reset your Power » le (3) atterrissait après « Power », mensonge visuel attrapé au rendu row D — règle finale : insérer avant le premier « . » qui SUIT le token X), puis **6 bespoke** : duo/juggernaut(+) = parens PAR CLAUSE (« Deal X damage (%d) and gain X Block (%d) » — dégâts et block divergent dès que la Strength s'applique !), second_wind(+) réaligné sur la convention. **Cartes volontairement NON migrées** : tsunami/all_in/dice_avalanche/mirror_blow/momentum/crescendo/bulwark/diceslap/pinpoint/resonance/cascade — leur texte résolu RESTATE déjà la formule en parenthèses-info (elles n'ont jamais eu le problème « formule perdue ») ; slash/cascade = cartes coupées, skip. Le panneau de carte socketée (dice.gd) hérite gratuitement (même chemin get_dynamic_description). Harnais wording : **row D « RESOLVED »** simule roll 3 (Global posé + `ModifierHandler.new()` sans enfants = passthrough) à travers le VRAI chemin — vérifie aussi que les gates ratés (Bullseye Mult 6, Bulletproof RED) gardent le texte de base. **⚠ INCIDENT STALE-BUFFER (2e occurrence du pattern live-editor) : l'éditeur de Julien a ÉCRASÉ le tooltip Power v3 en re-sauvant sa copie périmée de tooltip.gd** (re-appliqué ; si le vieux texte revient encore : fermer l'onglet script tooltip.gd dans l'éditeur / le laisser recharger avant de jouer). **RESTE À FAIRE** : verdict B vs C uniquement. ⚠ gdtoolkit : warrior_block/unity/fortify.gd ont le `Array [Node]` préexistant (invérifiables, pas cassés). **Si art généré voulu malgré tout : prompts fournis dans le chat du 07-29, contraints sur LA forme gagnante** (étoile 4 branches allongée, near-monochrome blanc/or, fond VERT, zéro pip/sparkles secondaires). Prochaines étapes si validé : phase 1 = entrée « Power » dans KeywordColorizer (glyphe + or, 1 entrée, 0 .tres) + tooltip hover sur le nombre de Power ; phase 2 = swap du X. (1) **La face de dé (mon favori initial, tirée de `blue6.png`) est MORTE — catch de Julien : une face à 6 pips lit comme le NOMBRE 6**, donc « Deal [dé 6 pips] x3 damage » se lit « 6×3=18 ». Pire que X, qui est au moins honnêtement inconnu. **Règle qui en découle : jamais de pips/points comptables dans ce glyphe.** (2) **« X×3 » (proposé pour lever l'ambiguïté X-au-carré) REJETÉ par Julien** — ajoute du bruit visuel sur toutes les cartes à multiplicateur pour un gain marginal. Ne pas re-proposer.
   - **Root cause du « pas massif » : rien dans le jeu ne DÉFINIT le glyphe.** Le compteur de Power en combat est un nombre nu sans glyphe → la carte dirait « ⌃ » pendant que le HUD dit « 12 », sans lien visuel. On remplacerait un placeholder universellement compris (X = « un nombre va ici ») par une rune arbitraire.
   - **PLAN RETENU (idée de Julien, meilleure que ma proposition de coupler au HUD) — en 2 phases.** **Phase 1 (sûre, faisable pré-launch, PAS ENCORE FAITE)** : attacher le glyphe au MOT « Power » partout où il est mentionné (cartes, tooltips, tutoriel) + tooltip au survol du nombre de Power. **⚠ Découverte qui rend ça très cheap : « Power » n'est PAS dans `KeywordColorizer.KEYWORDS`** (la liste a Charge/Refuel/Scout/Boost/Throw/Infused/Weak/Exposed/Lucky/Unlucky/Depleted/Energized/Strength/Muscle/Exhaust/Support/REST + les 9 types de dés) — la ressource centrale du jeu n'est jamais colorisée dans le texte de carte. Ajouter « Power » comme keyword porteur du glyphe = **UNE entrée dans le colorizer, ZÉRO édit de `.tres`**, et ça touche d'un coup toutes les cartes qui disent « Add 2 to your Power » / « Does not reset your Power » / « Triple your Power » / « Power above 10 counts DOUBLE ». **Phase 2 (post-launch)** : une fois le glyphe enseigné par le mot, remplacer le X du texte de carte devient sensé.
-  - **⚠ Piège d'implémentation LEVÉ (vérifié dans le code) : `card_ui.gd::description_font_size_for()` mesure le texte BRUT et la colorisation n'est appliquée QU'APRÈS** (`_apply_description` = chokepoint unique : `add_theme_font_size_override(description_font_size_for(text))` puis `description.text = colorize(text)`). Donc injecter du BBCode (`[img]`/`[color]`) via le colorizer **ne déclenche PAS le step-down de police 60/90 caractères** — c'était ma crainte initiale, elle est infondée tant qu'on n'écrit pas le BBCode dans les `.tres`. Vérifié aussi au rendu : **aucune régression de wrap** (Juggernaut wrappe en 2 lignes avec ET sans icône).
+  - **⚠⚠ CE BULLET EST PÉRIMÉ DEPUIS LE 2026-07-29 (step-down de description passé en MESURÉ, voir le bullet dédié en tête de TL;DR) — gardé pour l'historique.** Il disait : « Piège d'implémentation LEVÉ : `description_font_size_for()` mesure le texte BRUT, donc injecter du BBCode via le colorizer ne déclenche PAS le step-down 60/90 caractères ». **C'était vrai mais c'était le BUG** : le step-down ne voyait pas le glyphe (qui coûte ~un mot de largeur pour 0 caractère), donc Crescendo (59 caractères, un sous le seuil de 60) restait à 12pt et débordait d'une 4e ligne hors du DescriptionPanel. La vérif au rendu de l'époque (Juggernaut) était juste trop étroite pour l'attraper.
   - **⚠ Piège de génération confirmé une 2e fois : fond MAGENTA pour un sujet LUMINEUX = contamination** (le candidat orbe F1 est ressorti en fleur rose, le magenta ayant bavé dans le halo). **Round 2 des prompts demandé sur fond VERT `#00FF00`.**
   - **Candidats mesurés** : chevrons (les plus lisibles à 14px mais sémantiquement génériques « rank up »), éclat/shard (lit comme une flamme → risque de collision magma), sceau/soleil (correct), triade de pips (bouillie à 14px), disque doré (collision directe avec l'icône d'or), dé+burst (bouillie confirmée). **Direction retenue pour le round 2 : l'ORBE** — les power orbs volent DÉJÀ des dés vers le nombre de Power à chaque roll, donc l'orbe est littéralement « la chose qui s'accumule là ». 6 prompts round 2 fournis (orbe nu, orbe serti, wisp, cœur fissuré, gemme arrondie, orbe à anneau), **en attente des générations de Julien**.
   - **Note art** : générer en blanc/or près-monochrome pour que le glyphe reste teintable au runtime (`[img color=...]`) sans regénérer.
